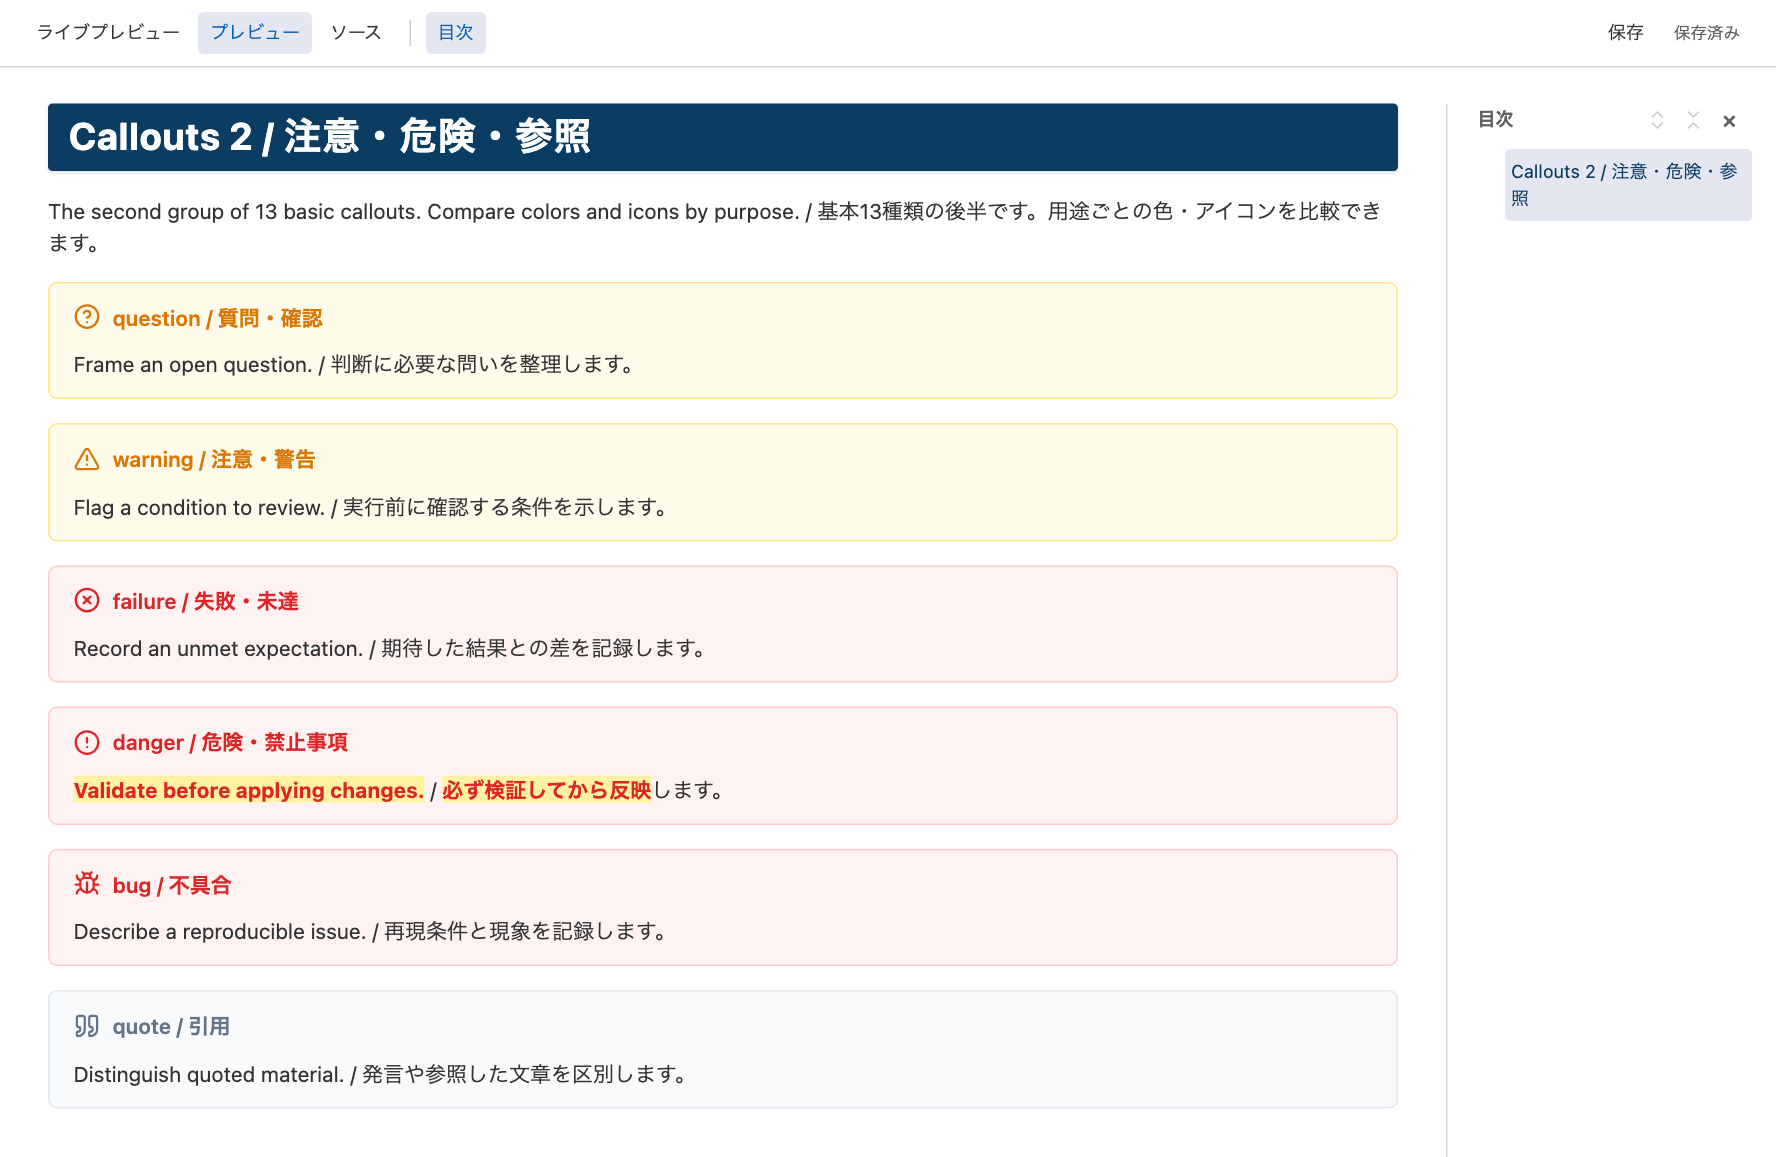
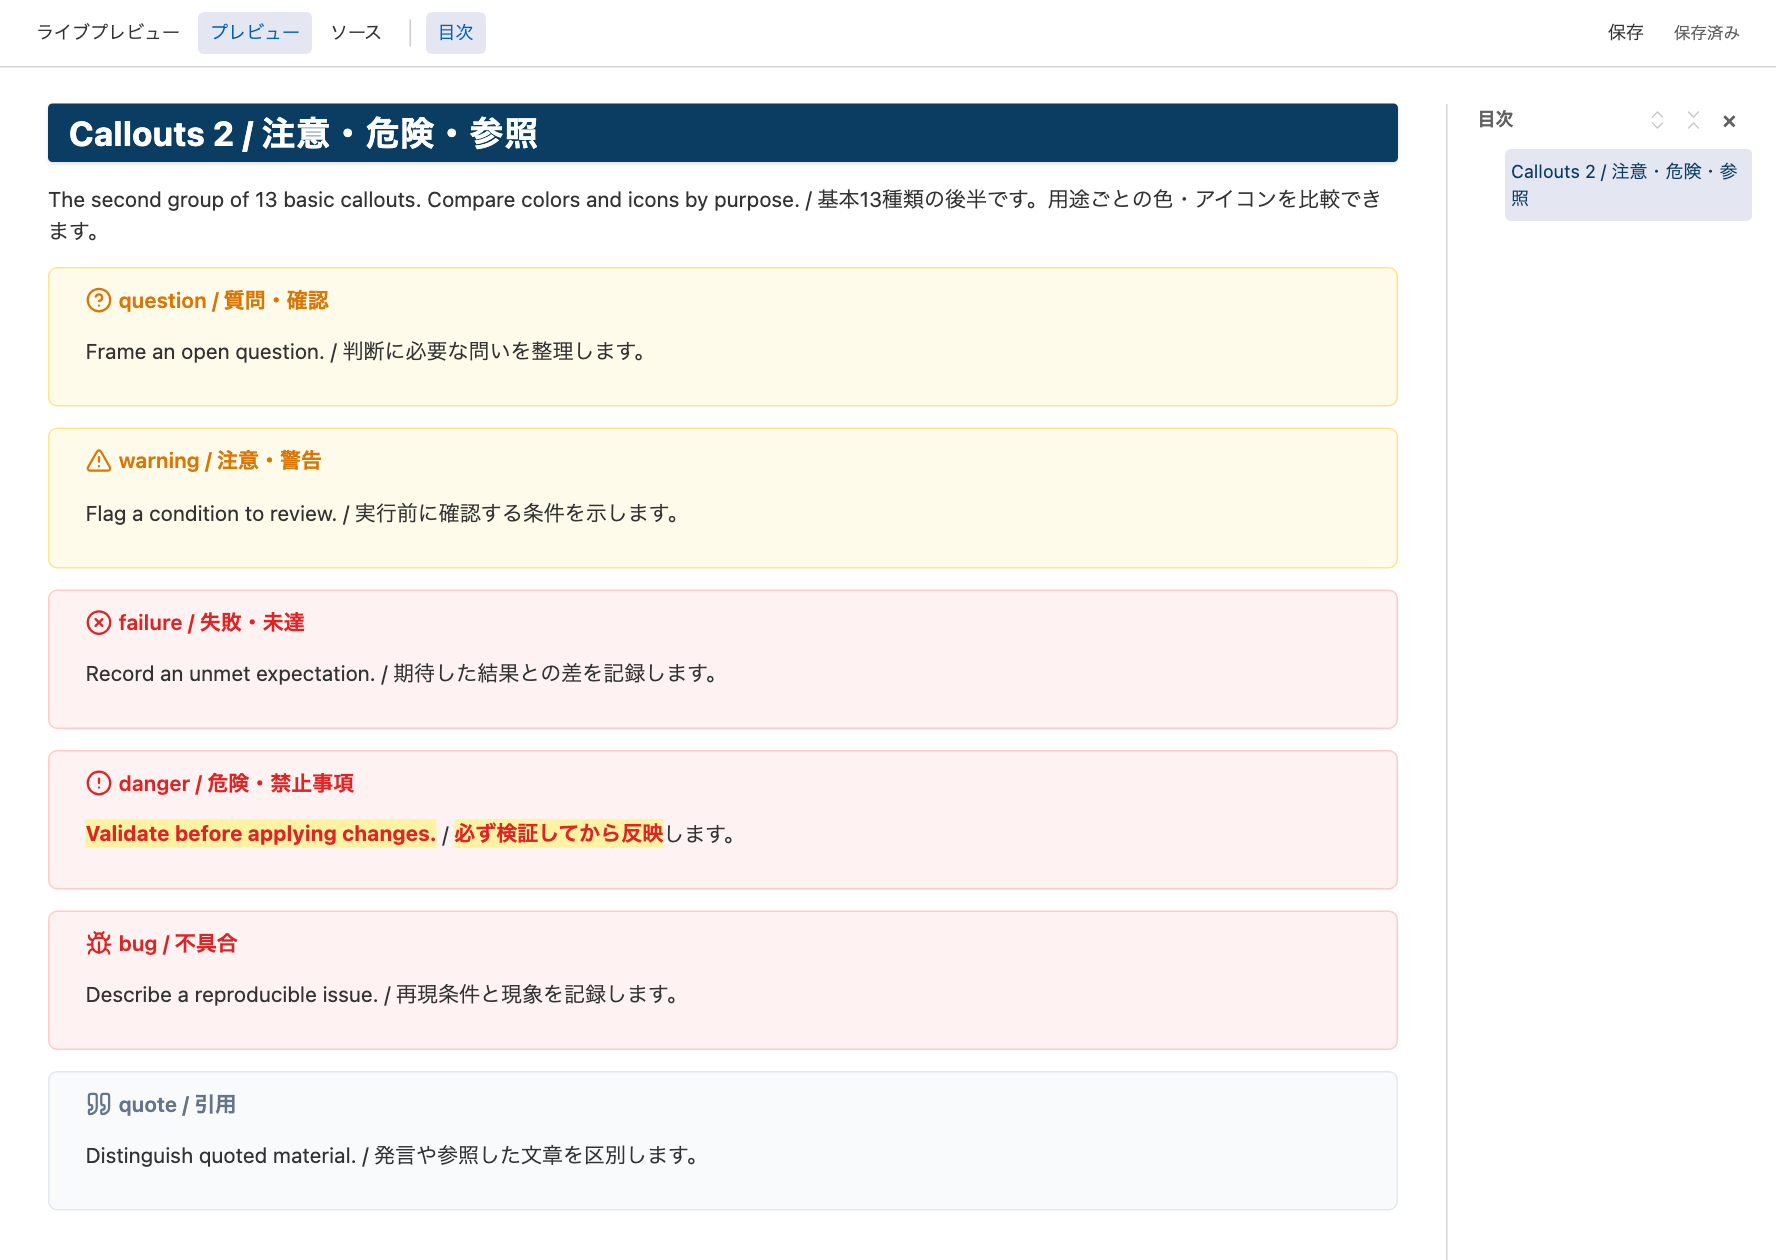
修正: ライブプレビューの見出しとゴール枠をObsidianに統一

diff --git a/media/preview.css b/media/preview.css
@@ -3,6 +3,8 @@ body.vscode-body {
   --text-normal: var(--vscode-editor-foreground);
   --text-muted: var(--vscode-descriptionForeground);
   --p-spacing: 1rem;
+  --heading-spacing: calc(var(--p-spacing) * 2.5);
+  --list-spacing: 0.075em;
   --line-height-normal: 1.5;
   --table-line-height: 1.5;
   --blockquote-border-thickness: 2px;
@@ -16,20 +18,19 @@ body.vscode-dark,
 body.vscode-high-contrast { --text-highlight-bg: #665522; }
 .markdown-body { max-width: 900px; margin: 0 auto; }
 .markdown-body :is(h1, h2, h3, h4, h5, h6) {
-  line-height: 1.3;
-  margin-top: 1.5em;
-  margin-bottom: var(--p-spacing);
+  margin-block: var(--p-spacing);
 }
 .markdown-body > :first-child { margin-top: 0; }
-.markdown-body h1 { font-size: 1.8em; }
-/* 本文からH1への余白は共通テーマに合わせ、文頭・見出し直後は保つ。 */
-.markdown-body :is(p, pre, table, .tableWrapper, ul, ol, blockquote:not(.callout)) + h1 {
+/* Obsidian同様、本文→見出しと、見出し→見出しの間隔を分ける。H1は共通テーマの64px。 */
+.markdown-body :is(p, pre, table, .tableWrapper, ul, ol, blockquote:not(.callout)) + :is(h1, h2, h3, h4, h5, h6) {
   margin-top: var(--heading-spacing);
 }
-.markdown-body h2 { font-size: 1.6em; }
-.markdown-body h3 { font-size: 1.2em; }
-.markdown-body h4 { font-size: 1.1em; }
-.markdown-body :is(h5, h6) { font-size: 1em; }
+.markdown-body h1 { font-size: 1.618em; line-height: 1.2; }
+.markdown-body h2 { font-size: 1.462em; line-height: 1.2; }
+.markdown-body h3 { font-size: 1.318em; line-height: 1.3; }
+.markdown-body h4 { font-size: 1.188em; line-height: 1.4; }
+.markdown-body h5 { font-size: 1.076em; line-height: var(--line-height-normal); }
+.markdown-body h6 { font-size: 1em; line-height: var(--line-height-normal); }
 .markdown-body :is(p, ul, ol, blockquote, pre) { margin-block: var(--p-spacing); }
 .markdown-body blockquote {
   margin-inline: 0;
@@ -41,8 +42,8 @@ body.vscode-high-contrast { --text-highlight-bg: #665522; }
 .markdown-body blockquote > :first-child { margin-top: 0; }
 .markdown-body blockquote > :last-child { margin-bottom: 0; }
 .markdown-body :is(ul, ol) { padding-inline-start: 1.5em; }
-.markdown-body :is(ul, ol) :is(ul, ol) { margin-block: 0.3em; padding-inline-start: 0.5em; }
-.markdown-body li { margin-block: 0.25em; }
+.markdown-body :is(ul, ol) :is(ul, ol) { margin-block: 0; padding-inline-start: 0.5em; }
+.markdown-body li { margin-block: 0; padding-block: var(--list-spacing); }
 .markdown-body li::marker { color: var(--text-normal); }
 .markdown-body li > p { margin-block: 0.4em; }
 .markdown-body ul > .task-list-item { list-style-type: none; }
@@ -74,19 +75,19 @@ body.vscode-high-contrast { --text-highlight-bg: #665522; }
 .markdown-body pre { padding: 1em; overflow: auto; }
 .markdown-body pre code { color: var(--code-normal); }
 .markdown-body mark { background: var(--text-highlight-bg); color: inherit; padding: 0.05em 0; }
-.markdown-body .callout { padding: 12px 16px; margin-block: var(--p-spacing); overflow: hidden; }
+.markdown-body .callout { padding: 12px 12px 12px 24px; margin-block: var(--p-spacing); overflow: hidden; }
+.markdown-body > .callout:first-child { margin-top: 0; }
 .markdown-body .callout-title {
   display: flex;
   align-items: flex-start;
-  gap: 8px;
+  gap: 4px;
   font-weight: 600;
-  line-height: 1.5;
+  line-height: 1.3;
 }
-.markdown-body .callout-title-icon { display: flex; align-items: center; flex: 0 0 auto; height: 1.5em; }
+.markdown-body .callout-title-icon { display: flex; align-items: center; flex: 0 0 auto; height: 1.3em; }
 .markdown-body .callout-title-icon svg { width: 18px; height: 18px; }
 .markdown-body .callout-title-inner { flex: 1; min-width: 0; }
-.markdown-body .callout-content > :first-child { margin-top: 0.75em; }
-.markdown-body .callout-content > :last-child { margin-bottom: 0; }
+.markdown-body .callout-content { display: flow-root; }
 .markdown-body details.callout > summary { cursor: pointer; list-style: none; }
 .markdown-body details.callout > summary::-webkit-details-marker { display: none; }
 .markdown-body details.callout > summary:focus-visible { outline: 2px solid currentColor; outline-offset: 4px; }

diff --git a/media/live.css b/media/live.css
@@ -1,4 +1,6 @@
-body.vscode-body { margin: 0; padding: 0; font-family: var(--vscode-font-family); font-size: 14px; background: var(--vscode-editor-background); }
+/* Obsidianの標準UIと同じrem基準。本文14pxと段落間隔を揃える。 */
+html { font-size: 14px; }
+body.vscode-body { margin: 0; padding: 0; font-family: var(--vscode-font-family); font-size: 1rem; background: var(--vscode-editor-background); }
 #toolbar { position: sticky; top: 0; z-index: 10; display: flex; flex-wrap: wrap; justify-content: space-between; gap: 8px; padding: 8px 16px; background: var(--vscode-editor-background); border-bottom: 1px solid var(--vscode-widget-border, #64748b44); }
 .modes, .formatting { display: flex; align-items: center; gap: 4px; }
 .toolbar-separator { flex: 0 0 1px; height: 18px; margin-inline: 6px; background: color-mix(in srgb, var(--vscode-foreground, #64748b) 25%, transparent); }
@@ -43,12 +45,12 @@ body.outline-resizing, body.outline-resizing * { cursor: col-resize !important; 
 body.vscode-body [hidden] { display: none !important; }
 .ProseMirror { outline: none; min-height: 50vh; white-space: pre-wrap; overflow-wrap: break-word; }
 :is(#editor, #preview) :is(h1, h2, h3, h4, h5, h6) { scroll-margin-top: calc(var(--toolbar-height, 50px) + 24px); }
-.ProseMirror h3 { margin-bottom: 6px !important; }
 .ProseMirror p { min-height: 1em; }
 .ProseMirror li { position: relative; }
 .ProseMirror .task-list-item-checkbox { position: absolute; left: 0; top: 0.3em; cursor: pointer; }
 .ProseMirror ol > .task-list-item { padding-left: 1.5em; }
-.ProseMirror .swak-list-content > p { margin-block: 0.3em; }
+.ProseMirror .swak-list-content > p { margin-block: 0; }
+.ProseMirror .swak-list-content > p + p { margin-block-start: var(--p-spacing); }
 .ProseMirror table { overflow: visible; table-layout: auto; }
 .ProseMirror :is(th, td) > p { margin-block: 0; }
 .ProseMirror :is(th, td) { position: relative; }

diff --git a/CHANGELOG.md b/CHANGELOG.md
@@ -1,5 +1,10 @@
 # Changelog / 変更履歴
 
+## 1.0.2
+
+- Align heading sizes, heading-to-heading gaps, H3 body spacing, and callout layout with Obsidian; keep the opening agenda compact while retaining 64px chapter breaks. / 見出しサイズ・見出し同士とH3本文の間隔・コールアウトの配置をObsidianに揃え、冒頭アジェンダはコンパクトに、章の区切りは64pxに統一しました。
+- Remove the empty title paragraph from callout bodies so lists start directly below the title in live preview. / コールアウトのタイトルに由来する空段落を取り除き、ライブプレビューでもタイトル直後に箇条書きを表示します。
+
 ## 1.0.1
 
 - Match the Obsidian theme's 64px spacing before H1 chapters in the built-in preview, live editor, and reading view. / 標準プレビュー・ライブ編集・閲覧表示で、本文からH1へ移る上余白をObsidianテーマと同じ64pxに揃えました。
